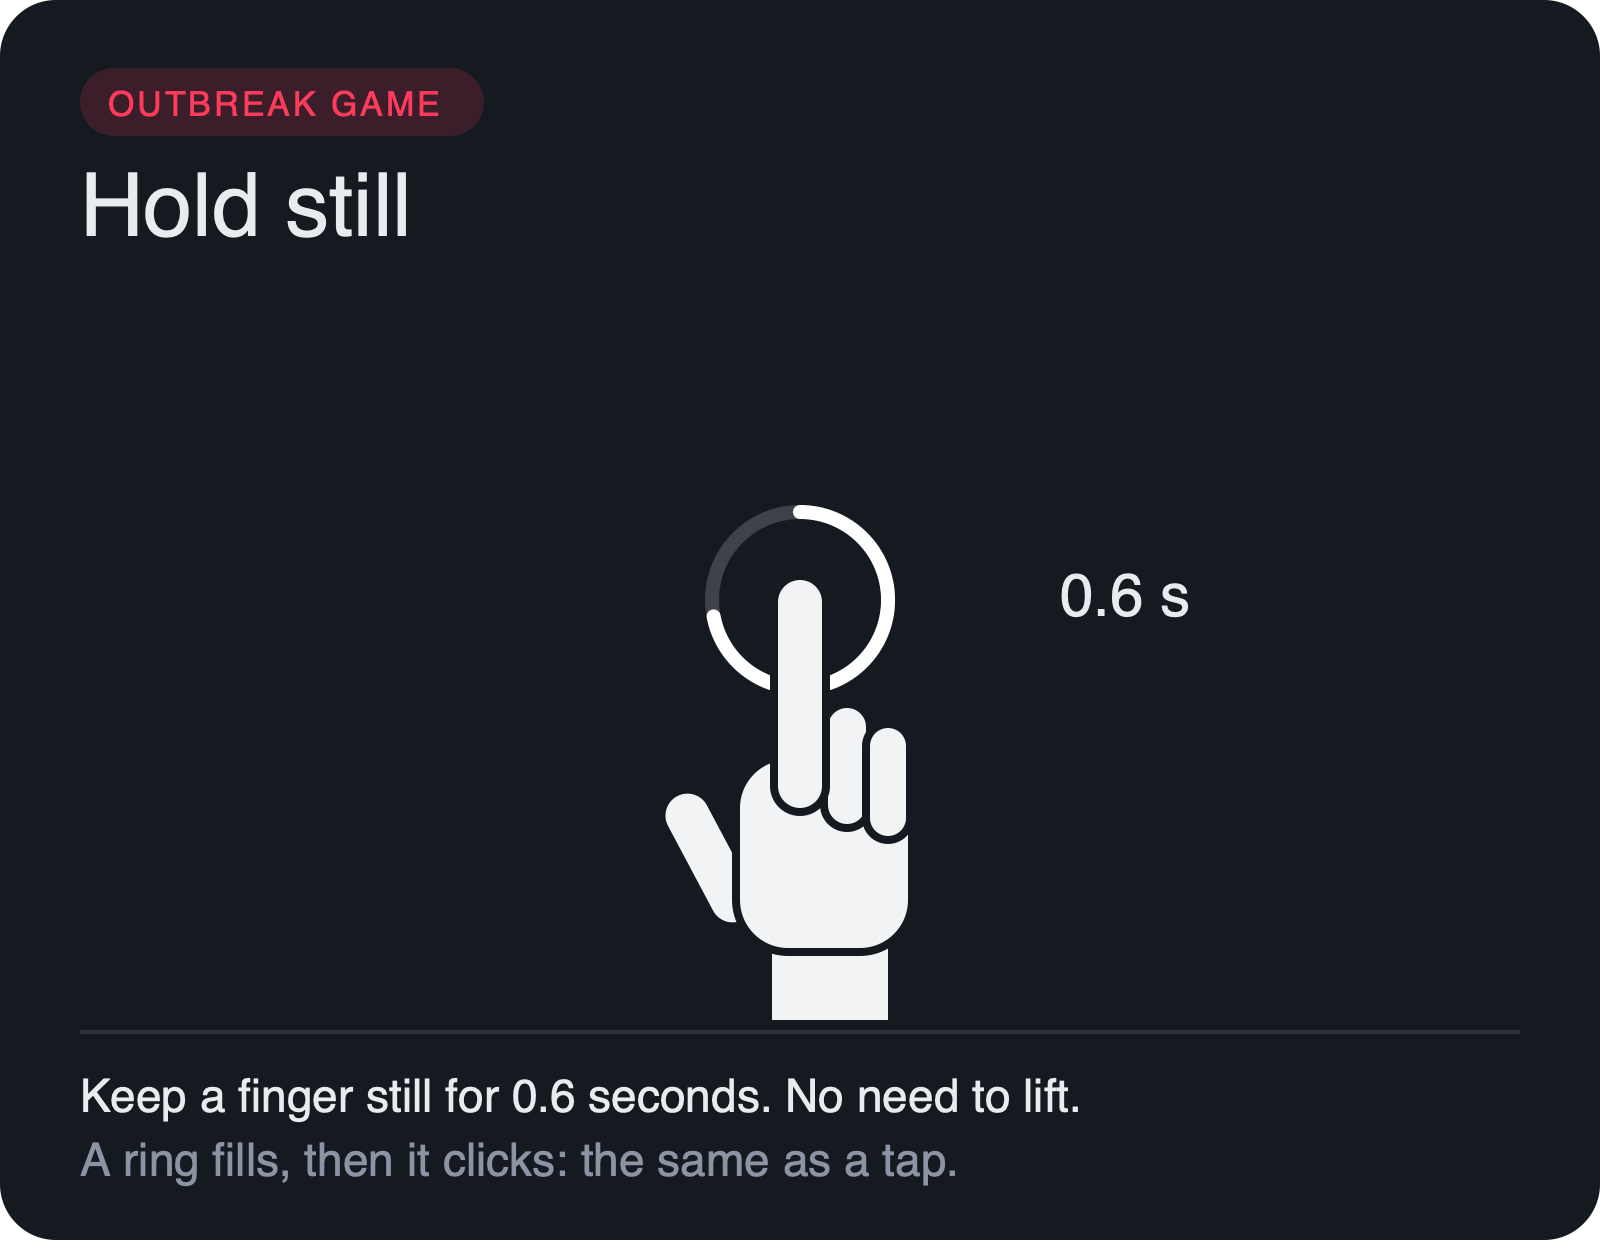
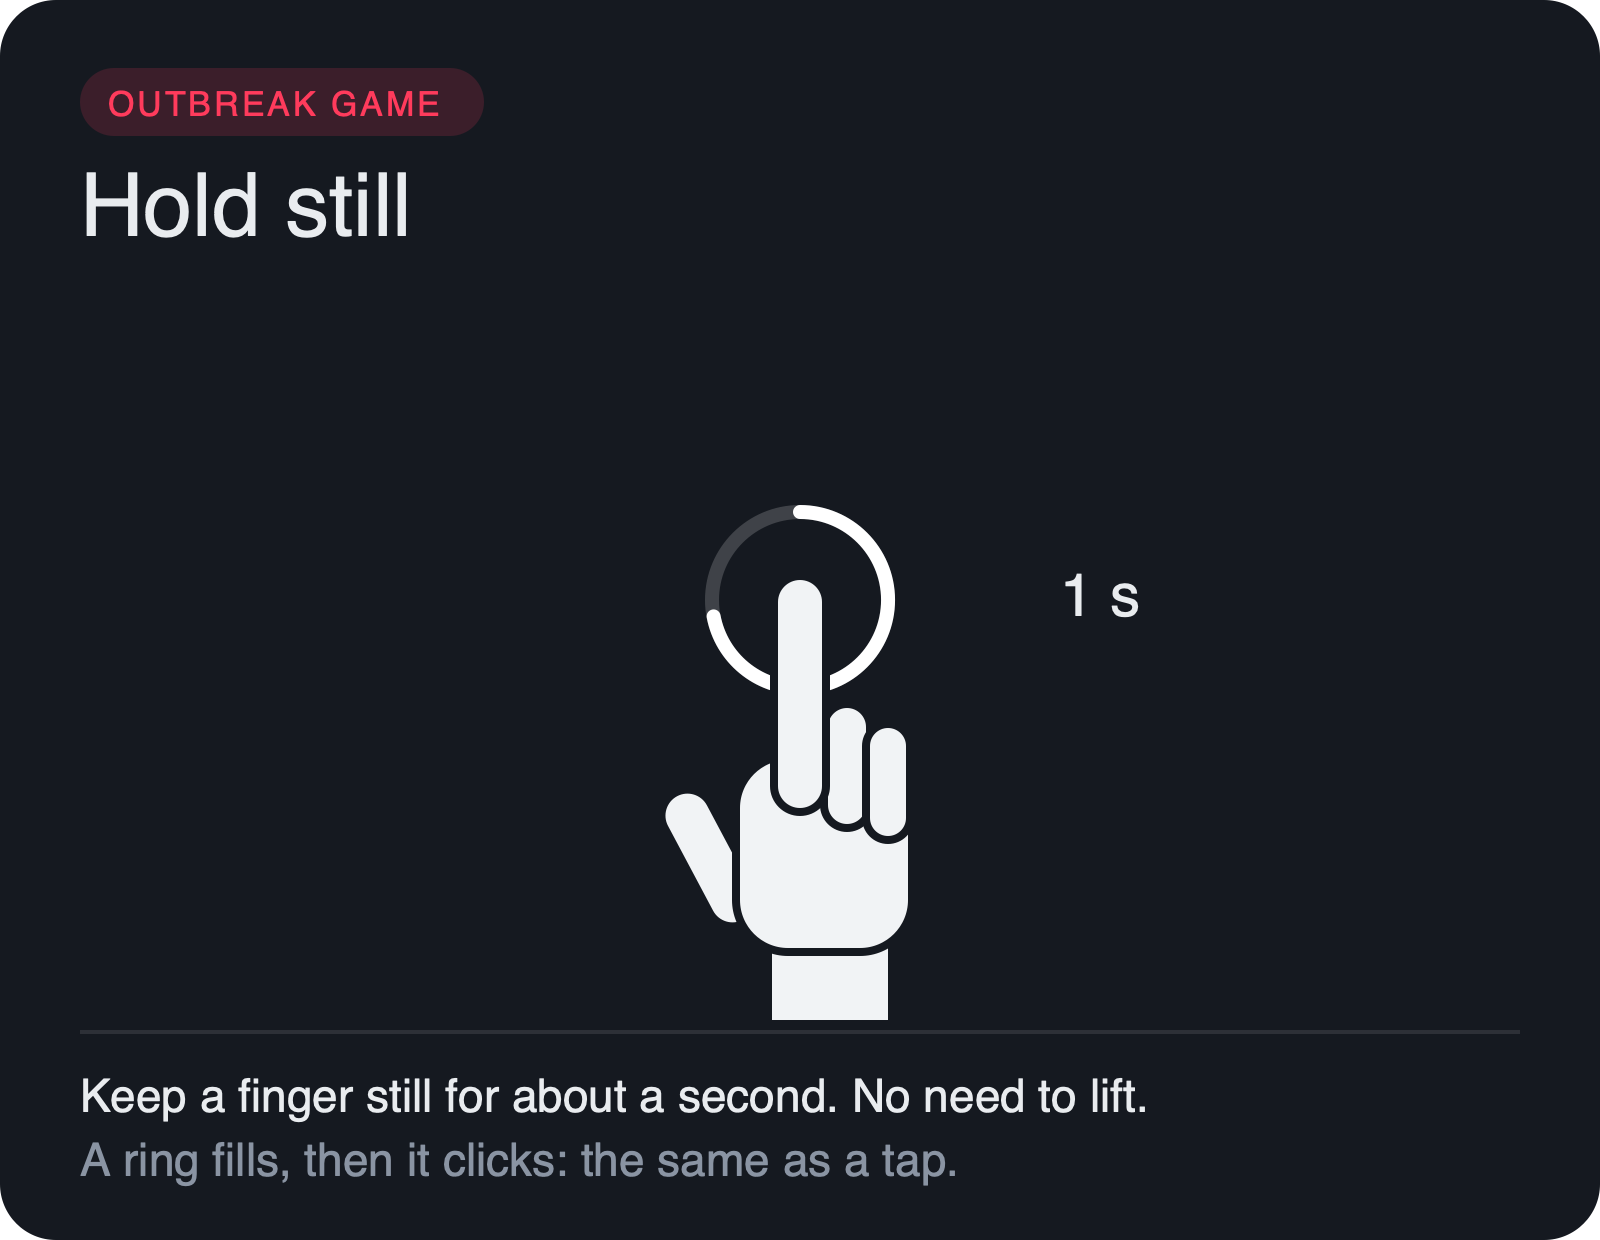
Gesture cards: the longer tap and hold

Changed region(s): [[0.3125, 0.8581, 0.7188, 0.9194], [0.6562, 0.4597, 0.75, 0.4903]]

diff --git a/docs/gestures/make.py b/docs/gestures/make.py
@@ -44,10 +44,10 @@ CARDS = []
 def card(slug, where, title, lines, art):
     CARDS.append((slug, where, title, lines, art))
 
-card('tap', 'Outbreak game', 'Tap', ['Touch the table and lift again, within a second.', 'Presses the button there, or plays on the map there.'],
+card('tap', 'Outbreak game', 'Tap', ['Touch the table for half a second, then lift.', 'Presses the button there, or plays on the map there.'],
      ripples(400, 190, RED) + hand(400, 190) + arrow(520, 150, 520, 210, DIM, 5) + arrow(560, 210, 560, 150, DIM, 5) + label(540, 245, 'down, up'))
-card('hold', 'Outbreak game', 'Hold still', ['Keep a finger still for 0.6 seconds. No need to lift.', 'A ring fills, then it clicks: the same as a tap.'],
-     arc(400, 190, 44, 0.72) + hand(400, 190) + label(530, 198, '0.6 s', TEXT, 30, 'start', 700))
+card('hold', 'Outbreak game', 'Hold still', ['Keep a finger still for about a second. No need to lift.', 'A ring fills, then it clicks: the same as a tap.'],
+     arc(400, 190, 44, 0.72) + hand(400, 190) + label(530, 198, '1 s', TEXT, 30, 'start', 700))
 card('piece', 'Outbreak game', 'Put a piece down', ['Stand a piece on your own half of the map.', 'It plays there once. Lift it and put it back to play again.'],
      arc(400, 290, 78, 0.72) + f'<circle cx="400" cy="290" r="52" fill="{GREEN}"/><circle cx="400" cy="290" r="34" fill="none" stroke="{CARD}" stroke-width="5" opacity="0.5"/>'
      + arrow(400, 130, 400, 195, DIM, 5))
